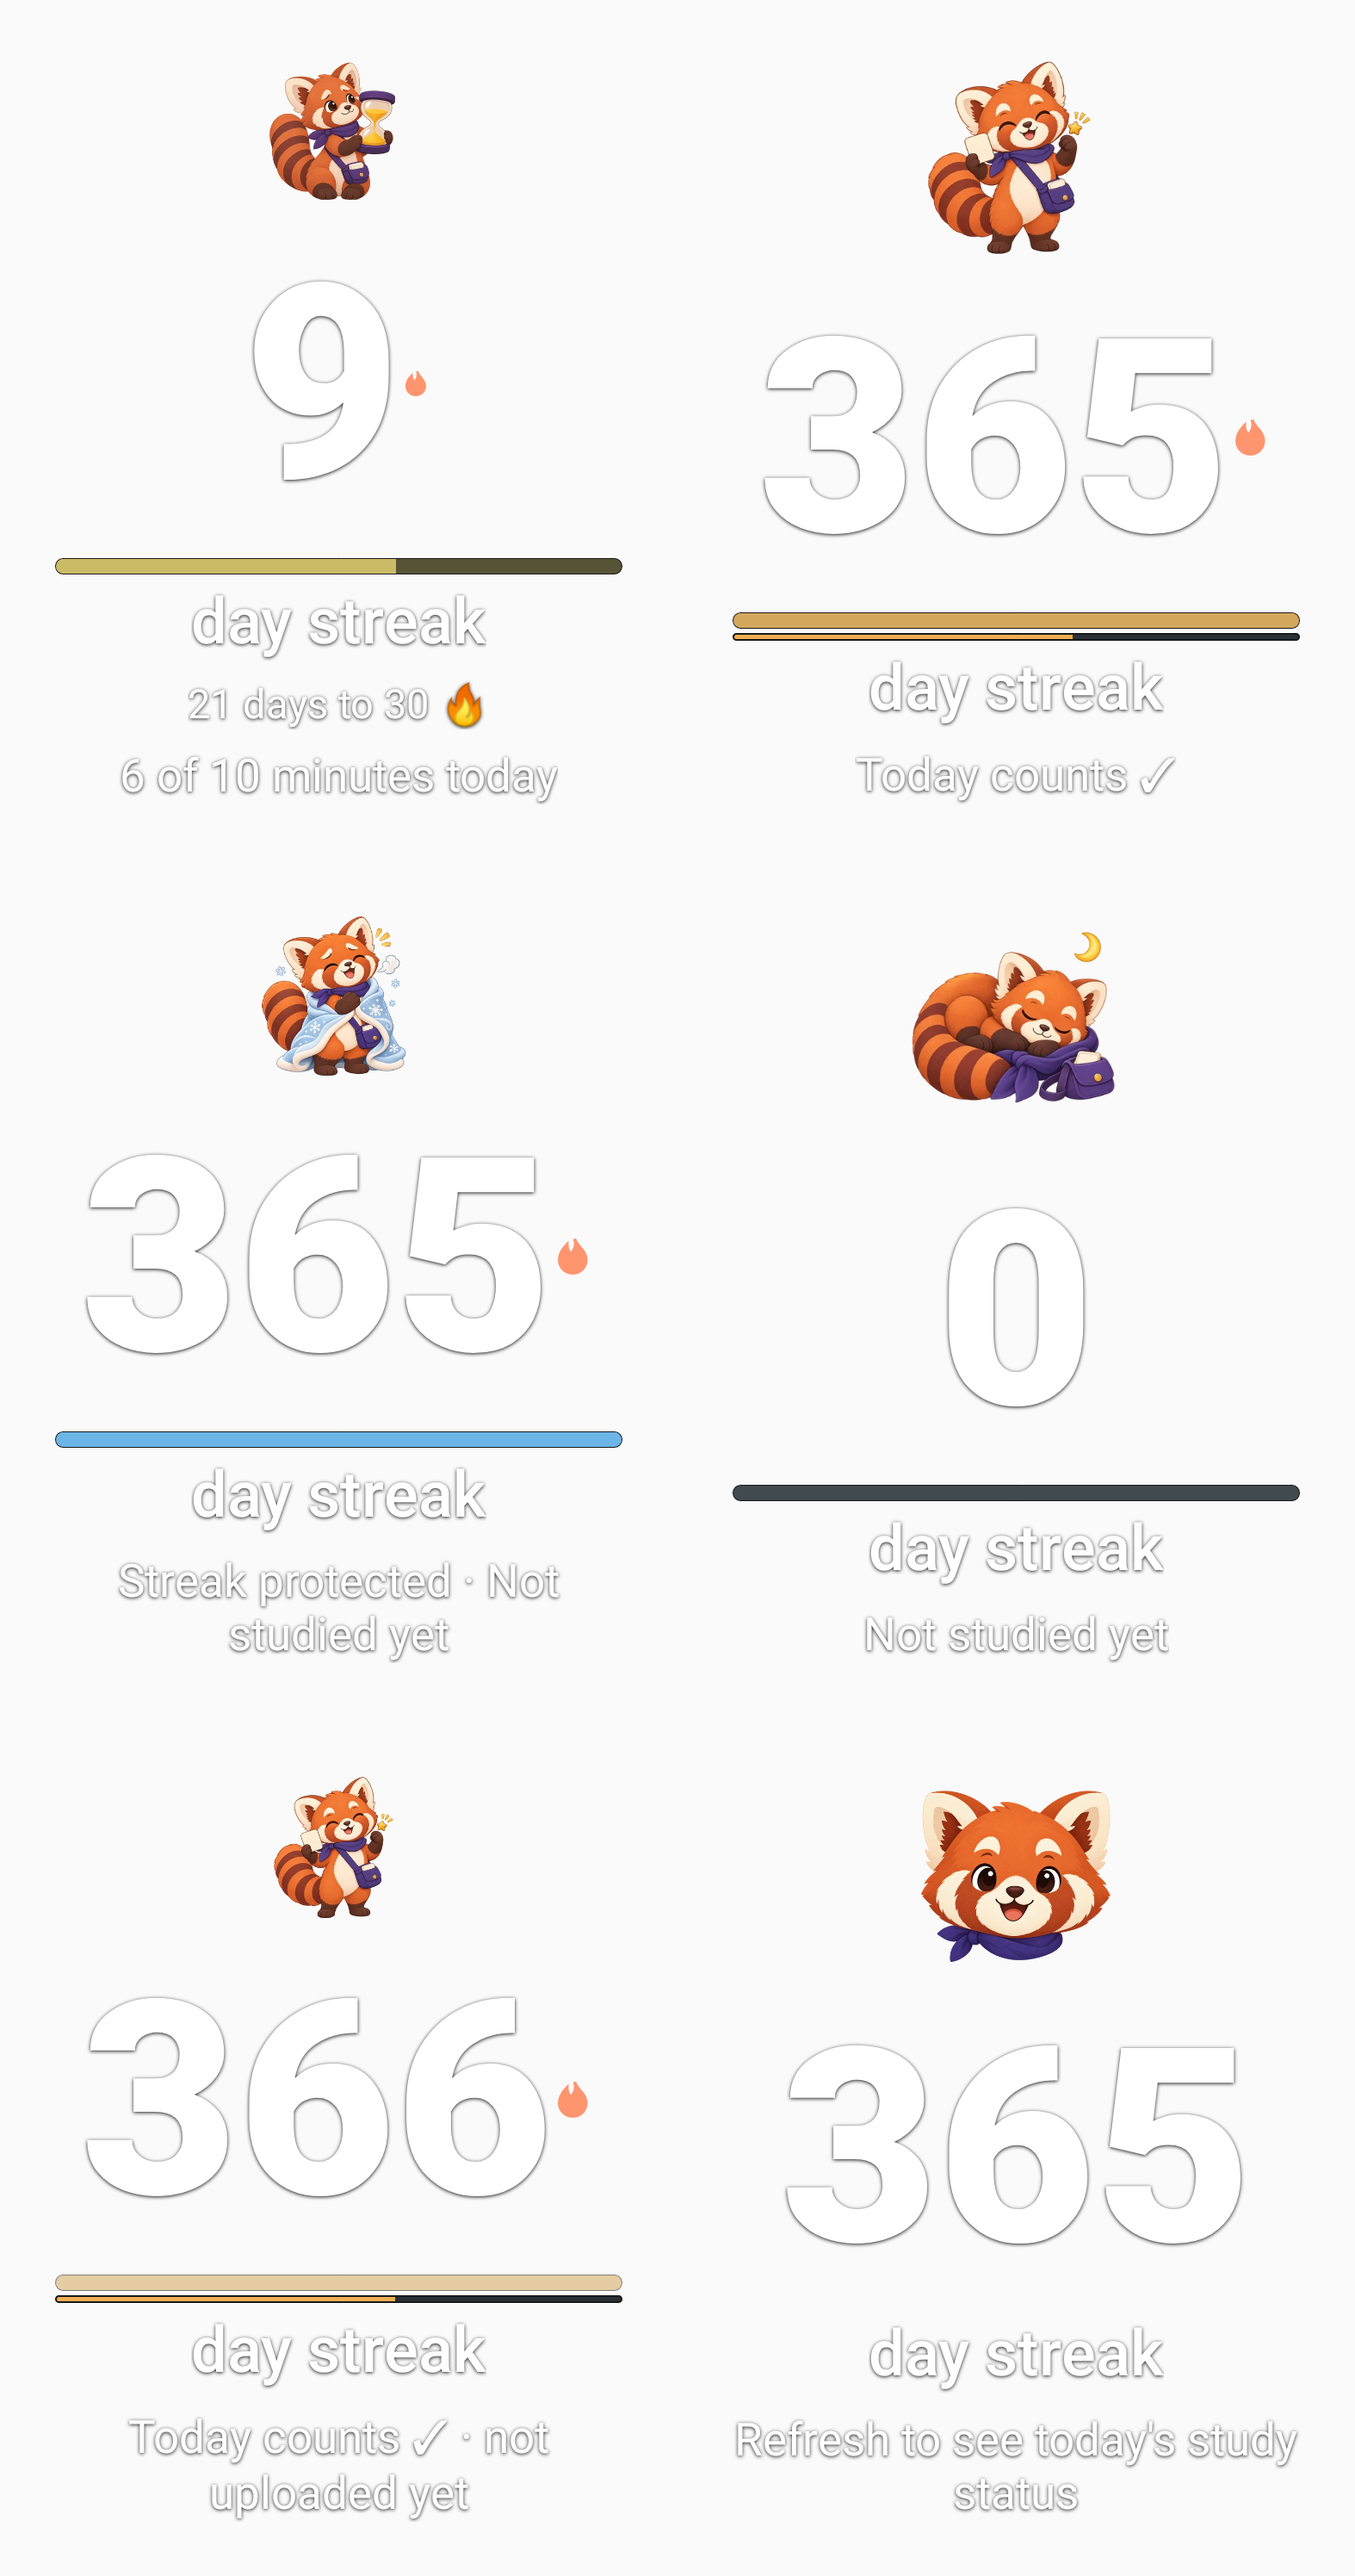
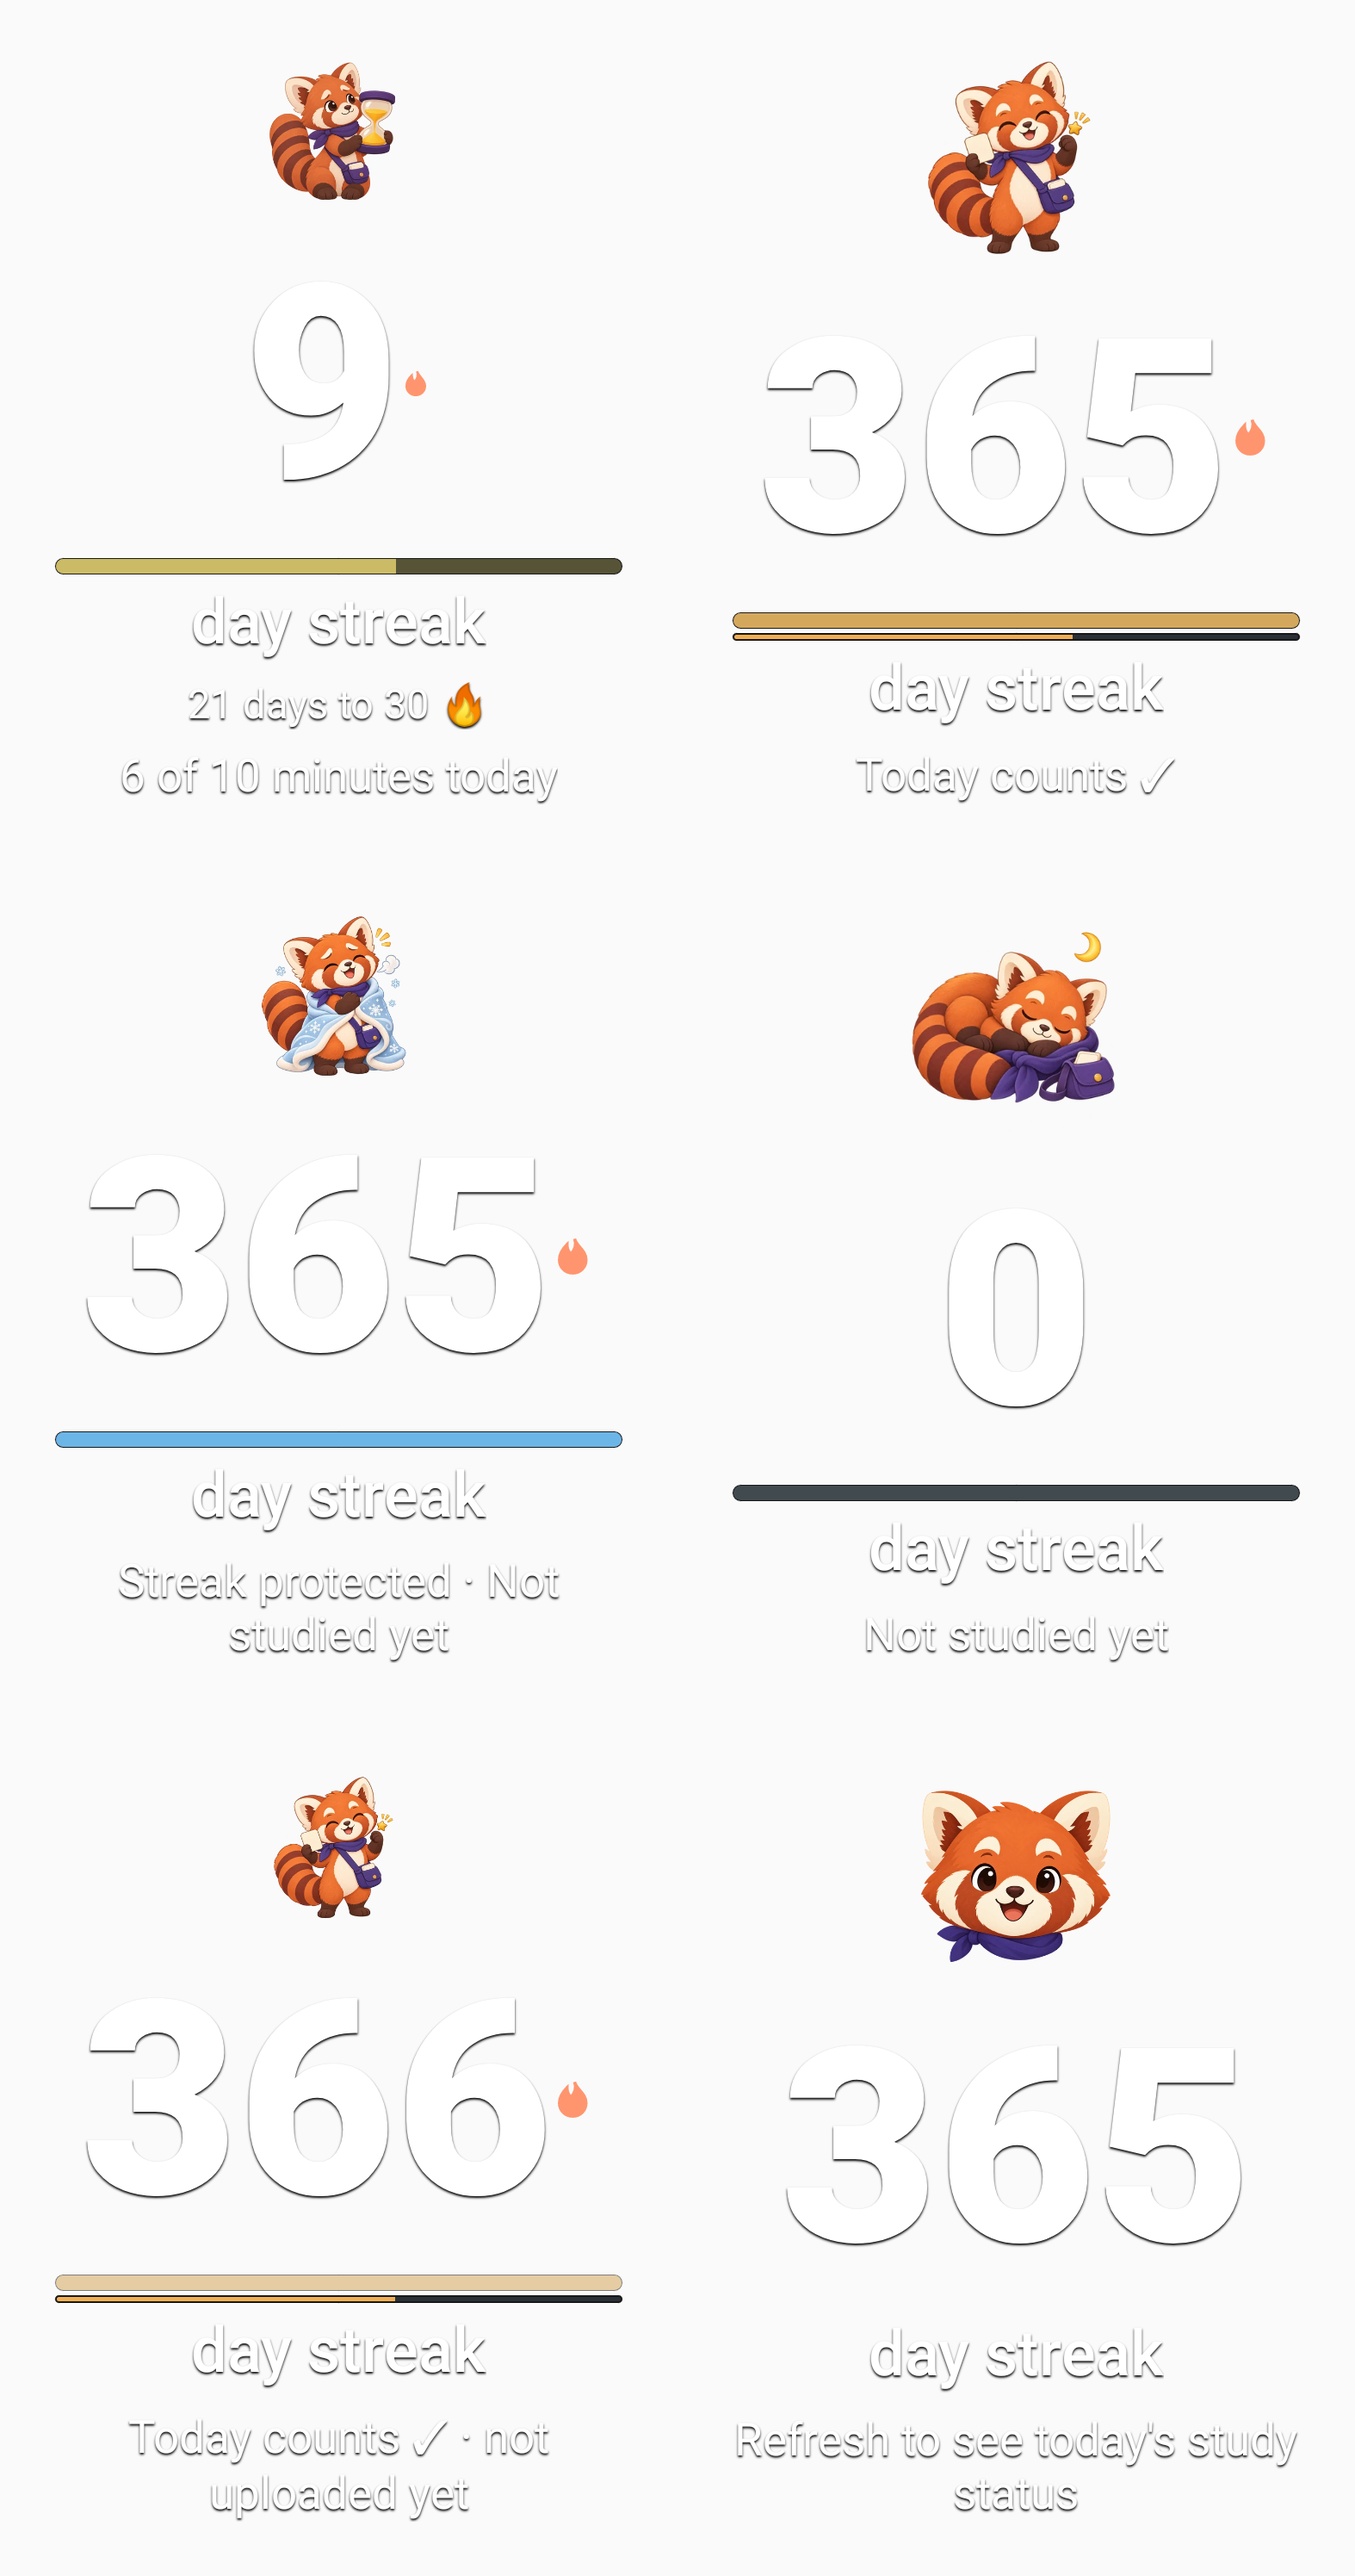
Improve streak text on pale wallpapers
Use one sharper shadow style for the transparent streak layouts.
A native rendering regression first reproduced the weak text edge;
both themes now pass, and all 16 captures have been reviewed.

Assisted-by: Codex (GPT-6)

diff --git a/AnkiDroid/src/test/java/com/ichi2/anki/ankiquest/AnkiquestClearStreakScreenshotTest.kt b/AnkiDroid/src/test/java/com/ichi2/anki/ankiquest/AnkiquestClearStreakScreenshotTest.kt
@@ -11,6 +11,7 @@ import android.widget.LinearLayout
 import android.widget.ProgressBar
 import android.widget.TextView
 import androidx.core.content.edit
+import androidx.core.graphics.ColorUtils
 import androidx.core.view.allViews
 import androidx.core.view.drawToBitmap
 import androidx.core.view.isVisible
@@ -34,6 +35,7 @@ import kotlin.test.assertTrue
 @Config(sdk = [33])
 class AnkiquestClearStreakScreenshotTest : ScreenshotTest() {
     private val now = 1_750_000_000_000L
+    private val textContrast = 4.5
 
     @Test
     fun lightWallpaper() = captureStates("light_wallpaper", Color.rgb(250, 250, 250))
@@ -164,6 +166,16 @@ class AnkiquestClearStreakScreenshotTest : ScreenshotTest() {
             val lastLine = minOf(status.maxLines, status.layout.lineCount) - 1
             assertTrue(lastLine >= 0 && status.layout.getLineEnd(lastLine) == status.text.length, "$size truncates the status")
             assertTrue(status.layout.height <= status.height, "$size clips the status")
+            // The shadow must separate small white text from a pale wallpaper.
+            val text = status.drawToBitmap()
+            var contrast = 1.0
+            for (y in 0 until text.height) {
+                for (x in 0 until text.width) {
+                    val pixel = ColorUtils.compositeColors(text.getPixel(x, y), Color.WHITE)
+                    contrast = maxOf(contrast, ColorUtils.calculateContrast(Color.WHITE, pixel))
+                }
+            }
+            assertTrue(contrast >= textContrast, "$size status outline contrast is $contrast on white")
         }
         for (meter in widget.allViews.filterIsInstance<ProgressBar>().filter { it.isVisible }) {
             val bounds = Rect(0, 0, meter.width, meter.height)

diff --git a/docs/development/ankiquest-ui/transparent-streak/README.md b/docs/development/ankiquest-ui/transparent-streak/README.md
@@ -2,13 +2,13 @@
 
 Issue #168 adds a separate **AnkiQuest Streak — Transparent** entry to the launcher widget picker. It uses the existing cached day verdict, streak minimum, daily goal and tap target. The original card entry stays available.
 
-The transparent layouts have shadowed white text and a black-and-white outline around the progress indicators. The small layout reserves space for the goal indicator at its advertised 57 × 57 dp minimum. Android 12+ chooses responsive layouts; earlier Android versions redraw on resize and retain the existing explicit text fitting.
+The transparent layouts share a sharp black shadow behind white text and a black-and-white outline around the progress indicators. The small layout reserves space for the goal indicator at its advertised 57 × 57 dp minimum. Android 12+ chooses responsive layouts; earlier Android versions redraw on resize and retain the existing explicit text fitting.
 
 ## Captures
 
 `AnkiquestClearStreakScreenshotTest` renders four minimum footprints (57 × 57, 100 × 90, 200 × 220 and 300 × 380 dp), each on a light and a dark wallpaper in both app themes. Each grid shows, in row order: partial minimum, confirmed minimum with a daily goal, protected day, no streak, locally met minimum awaiting upload, and expired/unknown state. The partial example includes a next milestone; the other active examples use three-digit streaks.
 
-The test asserts the number, status and progress fit inside the widget before saving each image. The companion tests cover both provider entries, transparent-only installations, shared content descriptions, account changes, pre-Android-12 resize refresh, and pre-Android-8 text fitting.
+The test asserts the number, status and progress fit inside the widget before saving each image. A native pixel check also requires a contrasting status-text shadow on white: the earlier blurred shadow failed at 3.59:1; the sharper shadow passes the 4.5:1 edge check. This is a rendering regression, not a full accessibility audit. The companion tests cover both provider entries, transparent-only installations, shared content descriptions, account changes, pre-Android-12 resize refresh, and pre-Android-8 text fitting.
 
 These are Robolectric native-rendering captures. Physical launcher resizing, TalkBack and arbitrary photo wallpapers still need device verification.
 
